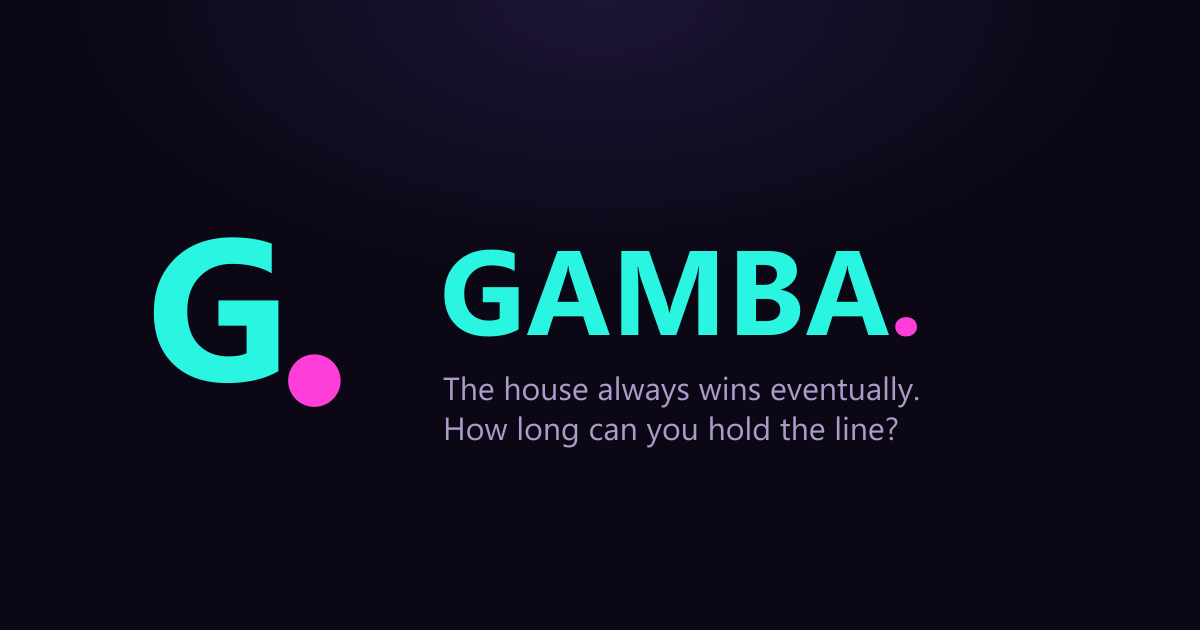
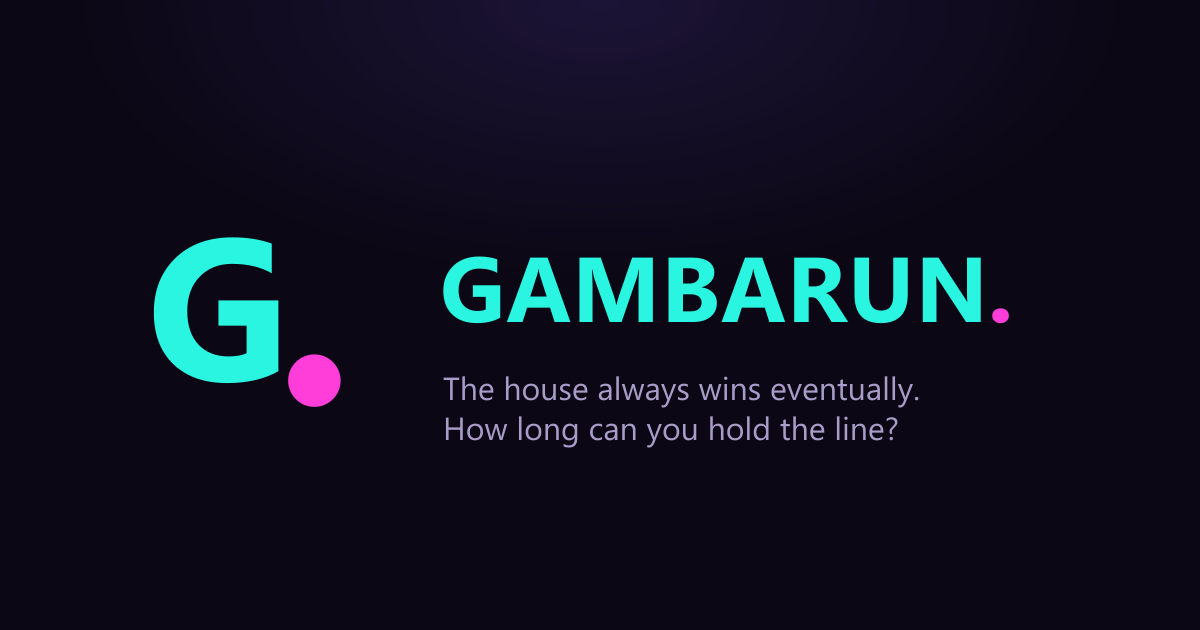
Rebrand: Gamba -> GambaRun
There's a real, active crypto casino at gamba.com, and using the same name
risked exactly the kind of confusion a harm-reduction project can't afford
(someone searching "Gamba" landing on real-money gambling instead). Renamed
everywhere the product name appears — header wordmark, page title, lobby
heading, footer, help copy, PWA manifest, and the OG/Twitter card (image
included). The "G." icon needs no change since GambaRun still starts with
G. Deliberately left untouched: the workers.dev domain, the GitHub repo
name, and existing localStorage keys (gamba-run-session etc. — renaming
those would silently wipe real players' saved progress on the live site).

Changed region(s): [[0.37, 0.3921, 0.8633, 0.5429]]

diff --git a/index.html b/index.html
@@ -11,21 +11,21 @@
     <meta name="theme-color" content="#0b0714" />
     <meta name="apple-mobile-web-app-capable" content="yes" />
     <meta name="apple-mobile-web-app-status-bar-style" content="black-translucent" />
-    <title>Gamba — A Roguelike Casino</title>
+    <title>GambaRun — A Roguelike Casino</title>
 
     <meta name="description" content="The house always wins eventually. How long can you hold the line?" />
 
     <meta property="og:type" content="website" />
-    <meta property="og:site_name" content="Gamba" />
+    <meta property="og:site_name" content="GambaRun" />
     <meta property="og:url" content="https://gamba.insanealec.workers.dev/" />
-    <meta property="og:title" content="Gamba — A Roguelike Casino" />
+    <meta property="og:title" content="GambaRun — A Roguelike Casino" />
     <meta property="og:description" content="The house always wins eventually. How long can you hold the line?" />
     <meta property="og:image" content="https://gamba.insanealec.workers.dev/og-image.png" />
     <meta property="og:image:width" content="1200" />
     <meta property="og:image:height" content="630" />
 
     <meta name="twitter:card" content="summary_large_image" />
-    <meta name="twitter:title" content="Gamba — A Roguelike Casino" />
+    <meta name="twitter:title" content="GambaRun — A Roguelike Casino" />
     <meta name="twitter:description" content="The house always wins eventually. How long can you hold the line?" />
     <meta name="twitter:image" content="https://gamba.insanealec.workers.dev/og-image.png" />
   </head>

diff --git a/src/views/HelpView.vue b/src/views/HelpView.vue
@@ -6,7 +6,7 @@ import { HELP_RESOURCES } from '../data/helpResources'
   <div class="help-view">
     <h1>Help &amp; Resources</h1>
     <p>
-      Gamba is a free, fake-money simulator meant to make the math of gambling visible. If
+      GambaRun is a free, fake-money simulator meant to make the math of gambling visible. If
       real-money gambling is affecting you or someone you know, these resources are free,
       confidential, and available any time.
     </p>

diff --git a/src/views/LobbyView.vue b/src/views/LobbyView.vue
@@ -26,7 +26,7 @@ function startRun() {
 <template>
   <div class="lobby">
     <div v-if="!runStore.isActive" class="intro card">
-      <h1>Welcome to <span class="glow-text">Gamba</span></h1>
+      <h1>Welcome to <span class="glow-text">GambaRun</span></h1>
       <p>
         Every run starts with 1,000 fake credits. Play any game below with that shared balance.
         When you hit zero, the run ends for good and you'll see exactly how the math played out.

diff --git a/src/components/layout/AppHeader.vue b/src/components/layout/AppHeader.vue
@@ -7,7 +7,7 @@ import CashOutButton from './CashOutButton.vue'
 
 <template>
   <header class="app-header">
-    <RouterLink to="/" class="brand">GAMBA<span class="brand-dot">.</span></RouterLink>
+    <RouterLink to="/" class="brand">GAMBARUN<span class="brand-dot">.</span></RouterLink>
     <nav class="nav">
       <RouterLink to="/stats">Lifetime Stats</RouterLink>
       <RouterLink to="/help">Help &amp; Resources</RouterLink>

diff --git a/vite.config.ts b/vite.config.ts
@@ -13,8 +13,8 @@ export default defineConfig({
         enabled: true,
       },
       manifest: {
-        name: 'Gamba',
-        short_name: 'Gamba',
+        name: 'GambaRun',
+        short_name: 'GambaRun',
         description: 'The house always wins eventually. How long can you hold the line?',
         theme_color: '#0b0714',
         background_color: '#0b0714',

diff --git a/src/components/layout/AppFooter.vue b/src/components/layout/AppFooter.vue
@@ -3,7 +3,7 @@
 <template>
   <footer class="app-footer">
     <p>
-      Gamba is a free simulator. No real money, cryptocurrency, or prizes are ever involved — it's
+      GambaRun is a free simulator. No real money, cryptocurrency, or prizes are ever involved — it's
       practice for your brain, not a wager.
     </p>
     <div class="footer-links">
